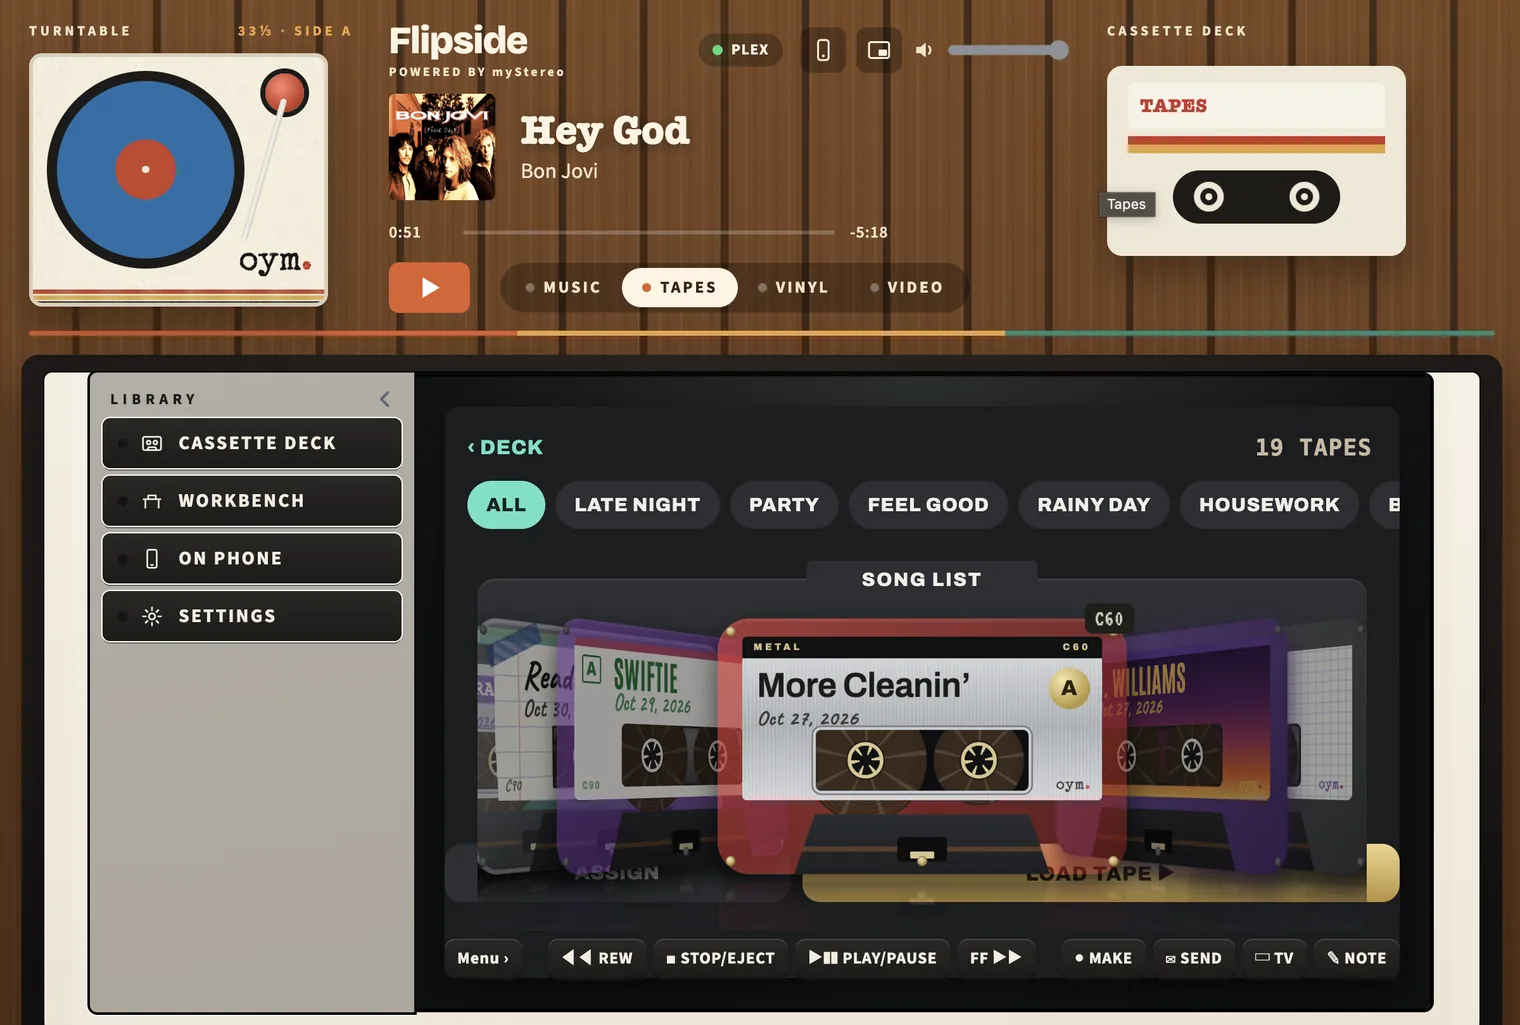
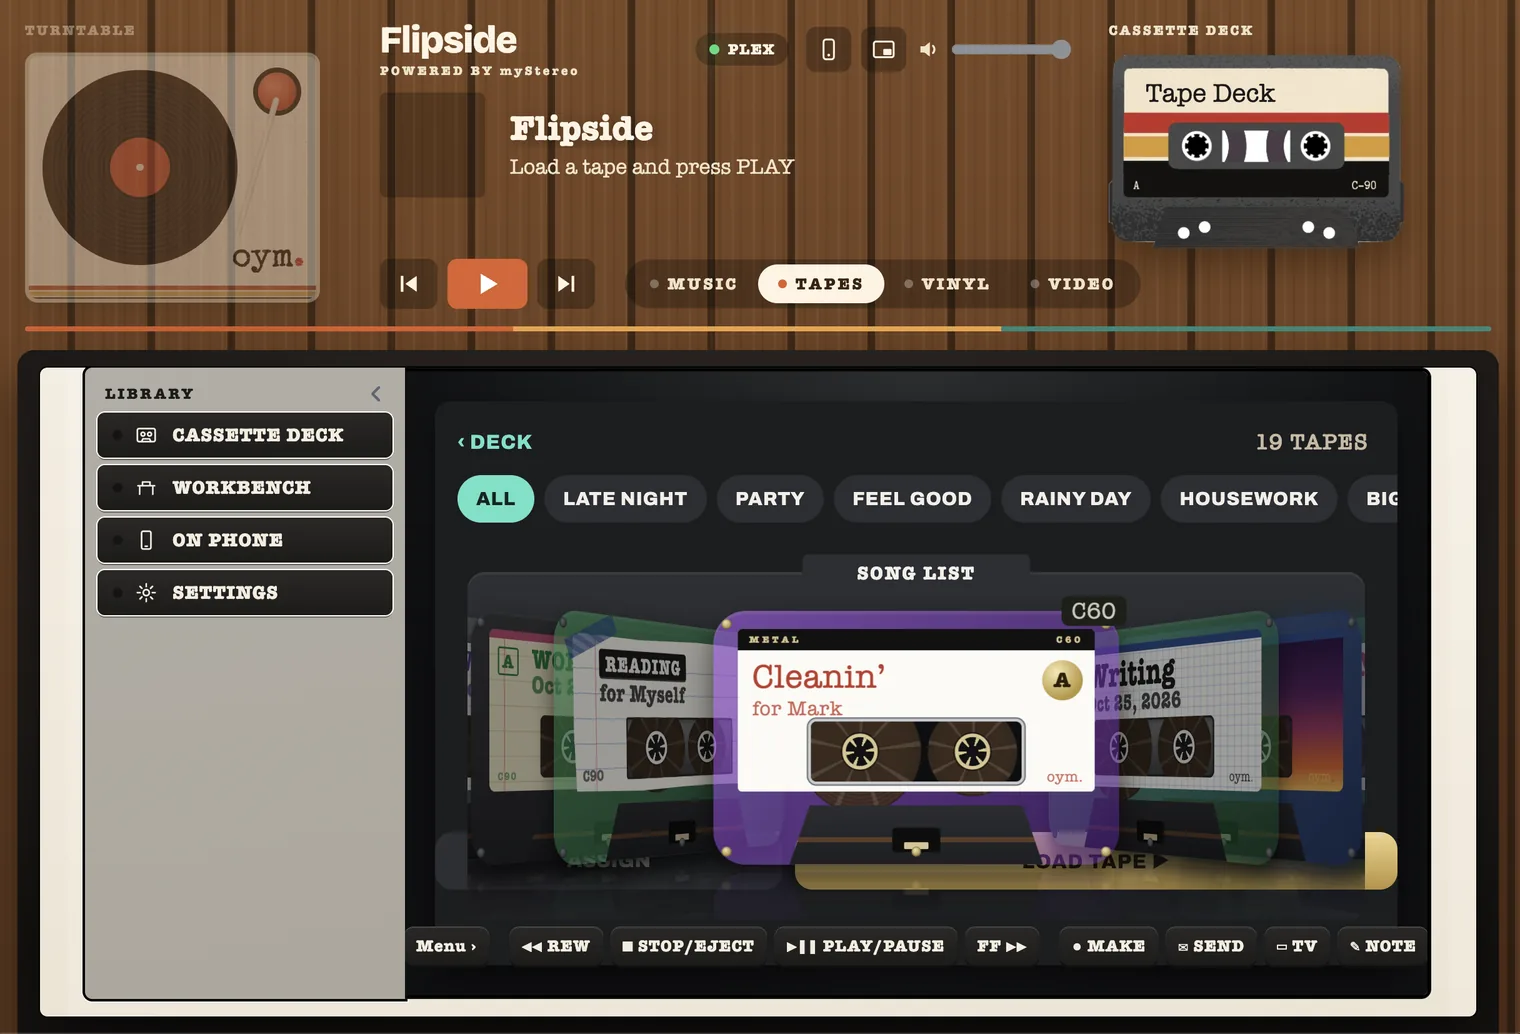
Add files via upload

diff --git a/mystereo/index.html b/mystereo/index.html
@@ -151,7 +151,7 @@ h1 span{color:var(--red)}
 <section class="hero"><img class="icon" src="/mystereo/app/icon-512.png" alt="" width="120" height="120"><div><p class="kick label">A free stereo for the music you own</p><h1>Your music.<br><span>Your stereo.</span></h1><p class="lede">myStereo turns your phone into a stereo for the albums and movies you already own. It plays songs or movies stored right on your phone. You can also connect a Plex server, but it’s not required. No subscription, no ads, no algorithm. You pick the album, turn the knob and press play.</p><div class="acts"><a class="btn" href="https://mystereo.ownyourmedia.club/">Open myStereo</a><a class="more" href="https://mystereo.ownyourmedia.club/mystereo/app/guide.html">Read the guide →</a></div><p class="fine">Free · iPhone, Android and computer · Try it with the demo music first</p></div></section>
 <div class="pair"><figure class="shot phone tl"><img src="/mystereo/shots/handheld-yellow.webp" width="600" height="1111" alt="The handheld player, knob and all." loading="lazy"><figcaption>The handheld player, knob and all.</figcaption></figure><figure class="shot phone tr"><img src="/mystereo/shots/back.webp" width="600" height="1127" alt="Swipe the case and it turns over." loading="lazy"><figcaption>Swipe the case and it turns over.</figcaption></figure></div>
 <section class="sec" id="inputs"><h2><span>§1</span> The inputs</h2><p class="intro">Three options under the screen, like the inputs on an old receiver. Plus simple access to your videos, easy setup tools and fun extras.</p><figure class="shot small"><img src="/mystereo/shots/inputs.webp" width="1206" height="461" alt="Music, Tapes and Vinyl under the screen. Video sits with the buttons." loading="lazy"><figcaption>Music, Tapes and Vinyl under the screen. Video sits with the buttons.</figcaption></figure><div class="grid"><div><h3>Music</h3><p>Your whole library: artists, albums, genres, playlists, ratings and search. Spin the knob through it, or just touch the screen.</p></div><div><h3>Tapes</h3><p>Our mixtape tool, <a href="/flipside/">Flipside</a>, lives right inside myStereo. Press TAPES and the deck comes up with every mixtape you’ve made.</p></div><div><h3>Vinyl</h3><p>The turntable. Pick any side, A through D, and press the center of the knob to turn the sleeve over: the songs, the pressing and how many times you’ve spun it. Every CD is now a record.</p></div><div><h3>Video</h3><p>Your movies and shows, right on the display. Turn the phone sideways for full screen. It picks up where you left off. (Plex server optional.)</p></div></div><figure class="shot wide"><img src="/mystereo/shots/vinyl.webp" width="1520" height="745" alt="Vinyl, with the phone turned sideways." loading="lazy"><figcaption>Vinyl, with the phone turned sideways.</figcaption></figure></section>
-<section class="sec" id="desktop"><h2><span>§2</span> On your desk</h2><figure class="shot wide"><img src="/mystereo/shots/console.webp" width="1520" height="1025" alt="Desktop Mode: the walnut console, with Flipside in the window." loading="lazy"><figcaption>Desktop Mode: the walnut console, with Flipside in the window.</figcaption></figure><div class="grid"><div><h3>The walnut console</h3><p>Open myStereo on a computer and it becomes a walnut console. The OYM turntable sits on the left and the cassette deck on the right. Click either one.</p></div><div><h3>A wall of covers</h3><p>Albums show as a wall of covers, and movies and shows as a wall of posters, with a red line under anything you’ve started.</p></div><div><h3>Now Playing</h3><p>A column of clickable songs. With a record on, it shows the sides and the color of the pressing.</p></div><div><h3>The Mini Player</h3><p>One small walnut bar with the cover, the song, the keys and the volume. In Chrome and Edge it floats in its own window.</p></div></div></section>
+<section class="sec" id="desktop"><h2><span>§2</span> On your desk</h2><figure class="shot wide"><img src="/mystereo/shots/console.webp" width="1520" height="1034" alt="Desktop Mode: the walnut console, with Flipside in the window." loading="lazy"><figcaption>Desktop Mode: the walnut console, with Flipside in the window.</figcaption></figure><div class="grid"><div><h3>The walnut console</h3><p>Open myStereo on a computer and it becomes a walnut console. The OYM turntable sits on the left and the cassette deck on the right. Click either one.</p></div><div><h3>A wall of covers</h3><p>Albums show as a wall of covers, and movies and shows as a wall of posters, with a red line under anything you’ve started.</p></div><div><h3>Now Playing</h3><p>A column of clickable songs. With a record on, it shows the sides and the color of the pressing.</p></div><div><h3>The Mini Player</h3><p>One small walnut bar with the cover, the song, the keys and the volume. In Chrome and Edge it floats in its own window.</p></div></div></section>
 <section class="sec" id="yours"><h2><span>§3</span> Make it yours</h2><div class="grid"><div><h3>Faceplates</h3><p>Black, white, walnut and a dozen colors, plus special editions like Runaway Anchor and Field Scanner.</p></div><div><h3>Displays</h3><p>Pale green LCD like an old car stereo, amber, teal, light or dark. Large text is on from the start.</p></div><div><h3>Tone</h3><p>Presets for the phone speaker, earbuds, the car or quiet listening. Or set the bass and treble yourself.</p></div><div><h3>The back</h3><p>Swipe the case and it turns over: polished steel, a few stickers and the engraving. The music keeps playing.</p></div></div></section>
 <section class="sec" id="phone"><h2><span>§4</span> No signal, no problem</h2><div class="grid"><div><h3>Save to Phone</h3><p>Save albums and playlists before a flight, a road trip or a weekend up north. They play with no signal and use none of your data.</p></div><div><h3>No Plex?</h3><p>Add songs you’ve ripped or bought from the Files app. myStereo keeps its own copy, so they play anywhere.</p></div><div><h3>The source light</h3><p>A little light on the screen says where the music is coming from: PLEX or PHONE. Use both? Tap it to switch.</p></div><div><h3>Keep your 5-stars</h3><p>Turn it on and every song you rate five stars saves itself to your phone.</p></div></div></section>
 <section class="sec" id="extras"><h2><span>§5</span> Extras</h2><div class="grid"><div><h3>Cover Flow</h3><p>Turn your phone sideways and your albums fill the screen. Flick through them, tap one to turn it over.</p></div><div><h3>Games</h3><p>Brick, Snake, Minesweeper, and a Music Quiz that plays clips from your own library.</p></div><div><h3>Play it somewhere else</h3><p>Send it to Plexamp in another room, or to AirPlay speakers, a HomePod or Bluetooth.</p></div><div><h3>A secret or two</h3><p>Remember the code that gave you 30 lives in Contra? Try it on the main menu. The edges of the knob are the D-pad.</p></div></div></section>
